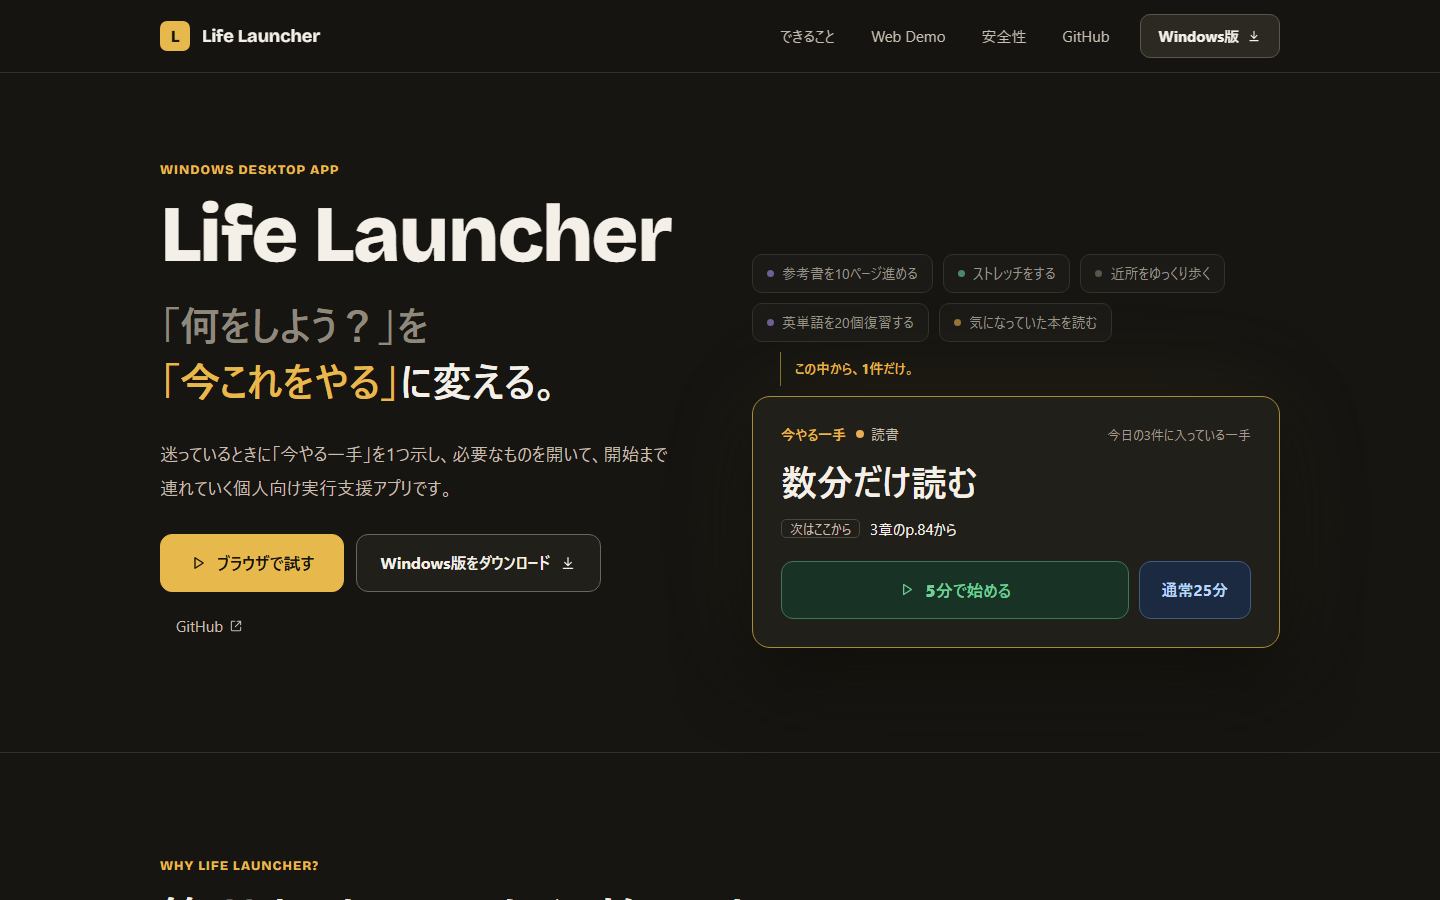
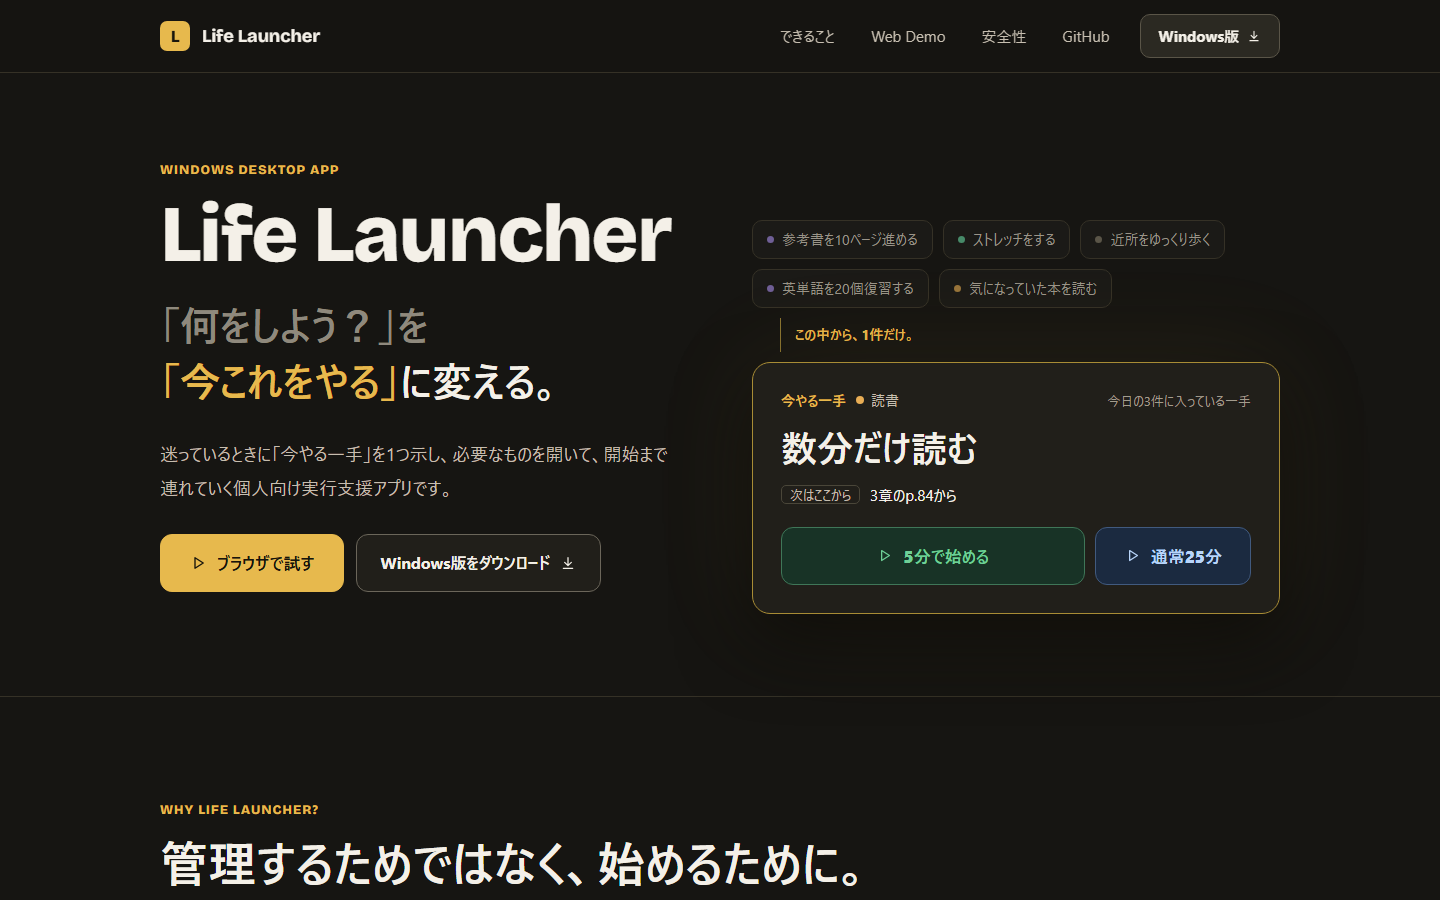
docs: update the landing screenshot, OG image, README and W17 release gate (W17-03)

diff --git a/docs/w17/03-release-gate.md b/docs/w17/03-release-gate.md
@@ -1,0 +1,77 @@
+READY FOR PRODUCTION APPROVAL
+
+# W17 最初の画面の手直しとデモの手直し(判定書)
+
+- 確認日: 2026-11-24
+- ブランチ: `feat/w17-hero-demo`(起点は `main` = `928ddcb`。W16 のマージ #18 と README の更新 #19 の後)
+- 本番: https://life-launcher-web.takuyakou.workers.dev/(この段階では反映していない)
+- 新しい npm 依存は足していない(`package.json`・`package-lock.json` は無変更)
+
+## 判定
+
+**`READY FOR PRODUCTION APPROVAL`**。`public:check`・lint・単体テスト・build・本番相当E2E・Visual QA はすべて通過しました。push 以外(PR・マージ・Cloudflare への反映)はしていません。保存形式(`life-launcher-web-demo:v3`、`schemaVersion: 3`)は変えていません。
+
+## コミット一覧(`928ddcb..HEAD`)
+
+| 段 | コミット | 内容 |
+| --- | --- | --- |
+| W17-01 | `c3f31a3` | 最初の画面の手直し(GitHub の文字のリンクを外す・右の段の位置・「通常25分」の大きさ・ヘッダーのリンクのホバー)、開始ボタンのホバーを Windows版から写す、デモの手直し 4 点 |
+| W17-02 | `eb57459` | 今あるテストの仕様同期と W17 の新しいテスト |
+| W17-02b | `a9331f6` | 最初の画面の右の段のテストを、ボタンの下端と比べる形に直した |
+| W17-03 | この文書のコミット | スクリーンショット・OG 画像・README・docs/README・この判定書 |
+
+## 最初の画面の手直し
+
+- ボタンの下の GitHub の文字のリンクを外した(ヘッダーとフッターには残る)。
+- 左右2列で並ぶ幅(1064px 以上)では、右の段(候補の札と今やる一手のカード)を、下端が左のボタンとそろう位置から 22px 下げた所に置く(カードの下端がボタンの下端より 22px 下)。
+- 「通常25分」に再生の印を付け、「5分で始める」と同じ字(17px・太さ 800)にした。
+- ヘッダーの文字のリンクは、乗せると明るい金(`#ffce5b`)になる(Windows版の上の帯と同じ色)。
+
+## 開始ボタンのホバー(Windows版 v1.6.3 から写した)
+
+最初の画面のカードと、デモの中の開始ボタン(今やる一手・今日の3件)にかける。乗せると地と枠が明るくなり、1px 浮いて影が付き、下に 2px の線が真ん中から伸びる(色・浮きは 130ms、線は 150ms)。押すと `scale(0.985)` で少し縮む。動きを減らす設定の時は浮かず縮まない。ボタンのふだんの色は変えていない。
+
+## デモの手直し
+
+| 所 | 前 | 後 | 理由 |
+| --- | --- | --- | --- |
+| 今やる一手のカード | 理由の下に説明 2 行(「迷ったときに…」「Web Demoでは…登録順で表示」) | 理由の 1 行と「次はここから」だけ | Windows版は、候補があるときに説明を出さない |
+| タイマーの開始・一時停止 | 「○○のタイマーを開始しました」「タイマーを一時停止しました」の通知 | 通知なし。カードと Timer の「実行中」「一時停止」で示す | Windows版と同じ |
+| Timer の Demo 用ボタン | 「短時間分まで進める」。進められない時も灰色で出る | 「5分経過まで進める」(分数は基準の値)。進められる時だけ出る | 名前で何が起きるか分かるように。押せないボタンを出さない |
+| まとめて取り込むの注意書き | `projects[0].nextStep.trigger` などの内部の項目名を並べる | 「きっかけとタイマーの分数は、Web Demo では取り込みません。Windows 版では反映されます。」 | 内部の名前を画面に出さない |
+| 通知の位置 | ページの右下(デモ画面からはみ出す) | デモ画面の内側の右端にそろえる。ダイアログを開いている間は上端の中央 | デモ画面の中の出来事として見えるように。ダイアログ中は Windows版と同じ |
+
+## 確認の表
+
+| 確認 | 結果 |
+| --- | --- |
+| `npm run public:check` | 通過。231 ファイル |
+| `npm run lint` | 通過。警告 0 |
+| `npm run test` | 通過。9 ファイル・107 件 |
+| `npm run build` | 通過 |
+| `WEB11_PREVIEW=1 npm run test:e2e` | 通過。**109 件、スキップなし**(本番と同じ CSP。`network.spec.ts`・コンソールエラー 0 を含む) |
+| `WEB11_PREVIEW=1 npm run test:visual` | 通過。32 件(1920 / 1440 / 1366 / 1000 / 390) |
+| `git diff --check main` | 問題なし |
+| v1.3 公開データの互換 | `tests/e2e/w14-release.spec.ts` の「v1.3 public data is read unchanged by this version」を変更せずに通過 |
+
+## 追加・変更したテスト
+
+- 新しい E2E: `tests/e2e/w17-hero.spec.ts`(7 件)。最初の画面に GitHub のリンクが無くヘッダーには残ること、カードの下端がボタンの下端より 22px 下になること(1920 / 1440 / 1366)、1列のときは下がらないこと、開始ボタンのホバー(地の色・1px の浮き・下の線。デモの中のボタンも)、「通常25分」の再生の印と字の大きさ。
+- 新しい E2E: `tests/e2e/w17-demo.spec.ts`(7 件)。開始・一時停止で通知が出ないこと、Demo 用ボタンの名前と出る条件、今やる一手のカードに説明文が無いこと、通知がデモ画面の内側に収まること(1440 / 1000 / 390)、ダイアログ中は通知が上端の中央に出ること。
+- `tests/e2e/w16-landing.spec.ts`:ヘッダーの文字のリンクに乗せた時の色を、明るい白から明るい金(`rgb(255, 206, 91)`)にした。
+- `tests/e2e/w14-behavior.spec.ts`:今やる一手の説明文が「ある」確かめを、「無い」確かめに替えた。
+- `tests/e2e/w15-v16-features.spec.ts`:取り込みの注意書きを新しい文言にし、内部の項目名が出ないことを足した。
+- `tests/e2e/early-completion.spec.ts`・`tests/e2e/production.spec.ts`・`tests/visual/early-completion.spec.ts`:Demo 用ボタンの名前を「5分経過まで進める」にした。
+
+## 本番反映の手順(オーナーが行う)
+
+1. このブランチの CI が通っていることを確かめる。
+2. 「Create a merge commit」で `main` にマージする(squash しない)。Cloudflare の Git 連携が自動でビルドして本番に反映する。
+3. 公開 URL で、次の点を確かめる。
+   - 最初の画面のボタンの下に GitHub の文字のリンクが無い。
+   - ヘッダーの「できること」などに乗せると、字が金色になる。
+   - 最初の画面のカードの「5分で始める」「通常25分」に乗せると、下に線が伸びて少し浮く。
+   - デモで「5分で始める」を押しても通知が出ない。
+   - 25分で始めると Timer に「5分経過まで進める」が出る。
+
+戻し方: 公開 URL での確認で問題があれば、`main` のこのマージを revert する(同じ Git 連携で一つ前の版に戻る)。

diff --git a/README.md b/README.md
@@ -20,7 +20,7 @@
    - プロジェクトで絞り込みながら最大 3 件を選び、その場でやりたいことを足して順番を入れ替え、「決定」でまとめて保存します（未保存のまま閉じる場合は破棄確認が出ます）。
    - 実行中・一時停止中・満了確認待ちの項目は保護されて外れません。不要になった項目は、元の候補や実行記録を残したまま「今日の3件から外す」で採用だけを解除できます。
 3. **タイマー実行・延長・次の一手の更新**
-   - 5 分 / 25 分タイマーの開始・一時停止・再開・終了を行えます。Demo 用の「短時間分まで進める」「満了まで進める」を使えば待たずに終了フローを確認できます。
+   - 5 分 / 25 分タイマーの開始・一時停止・再開・終了を行えます。Demo 用の「5分経過まで進める」（25 分で始めたとき）と「満了まで進める」を使えば、待たずに終了フローを確認できます。
    - 予定時間が来ると「予定時間になりました」から 1〜240 分（±5 分）の延長、または「次はここから」と次の一手を残して「今日の実行」への記録を選べます。3 件すべて完了すると次の 3 件へ進めます。
 4. **「まとめて取り込む」（体験版）**
    - AI に提案させたプロジェクト・次の一手・やりたいことの JSON 回答（または画面内のサンプル回答）を貼り付けると、ブラウザ内だけで解析して選んだ行を追加できます。
